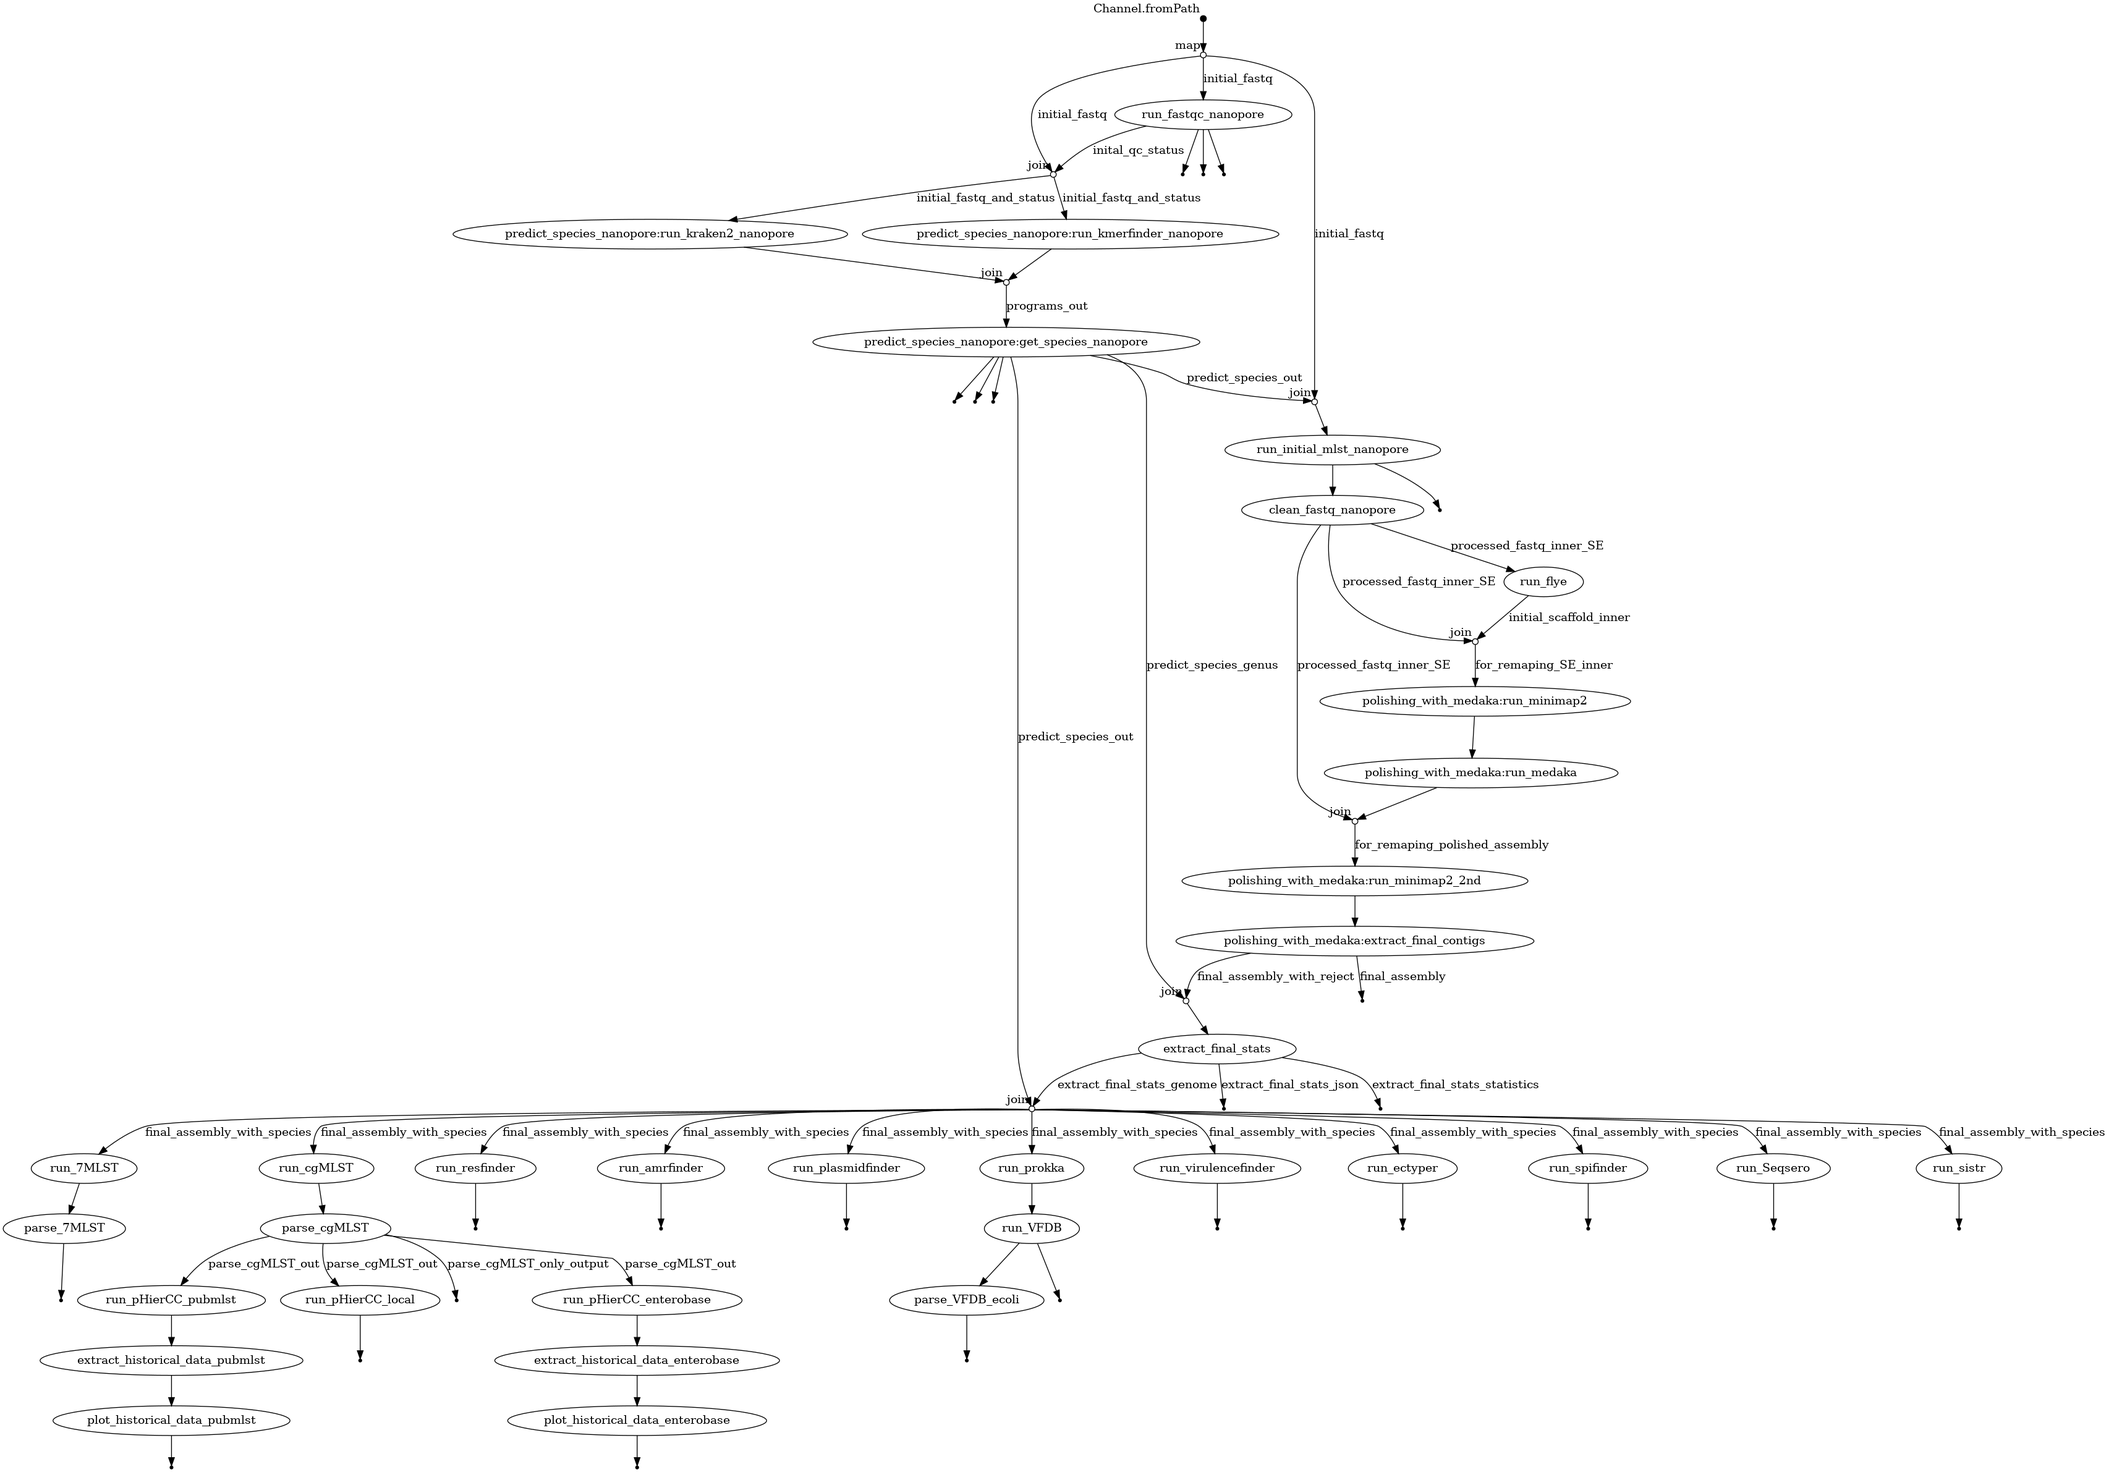
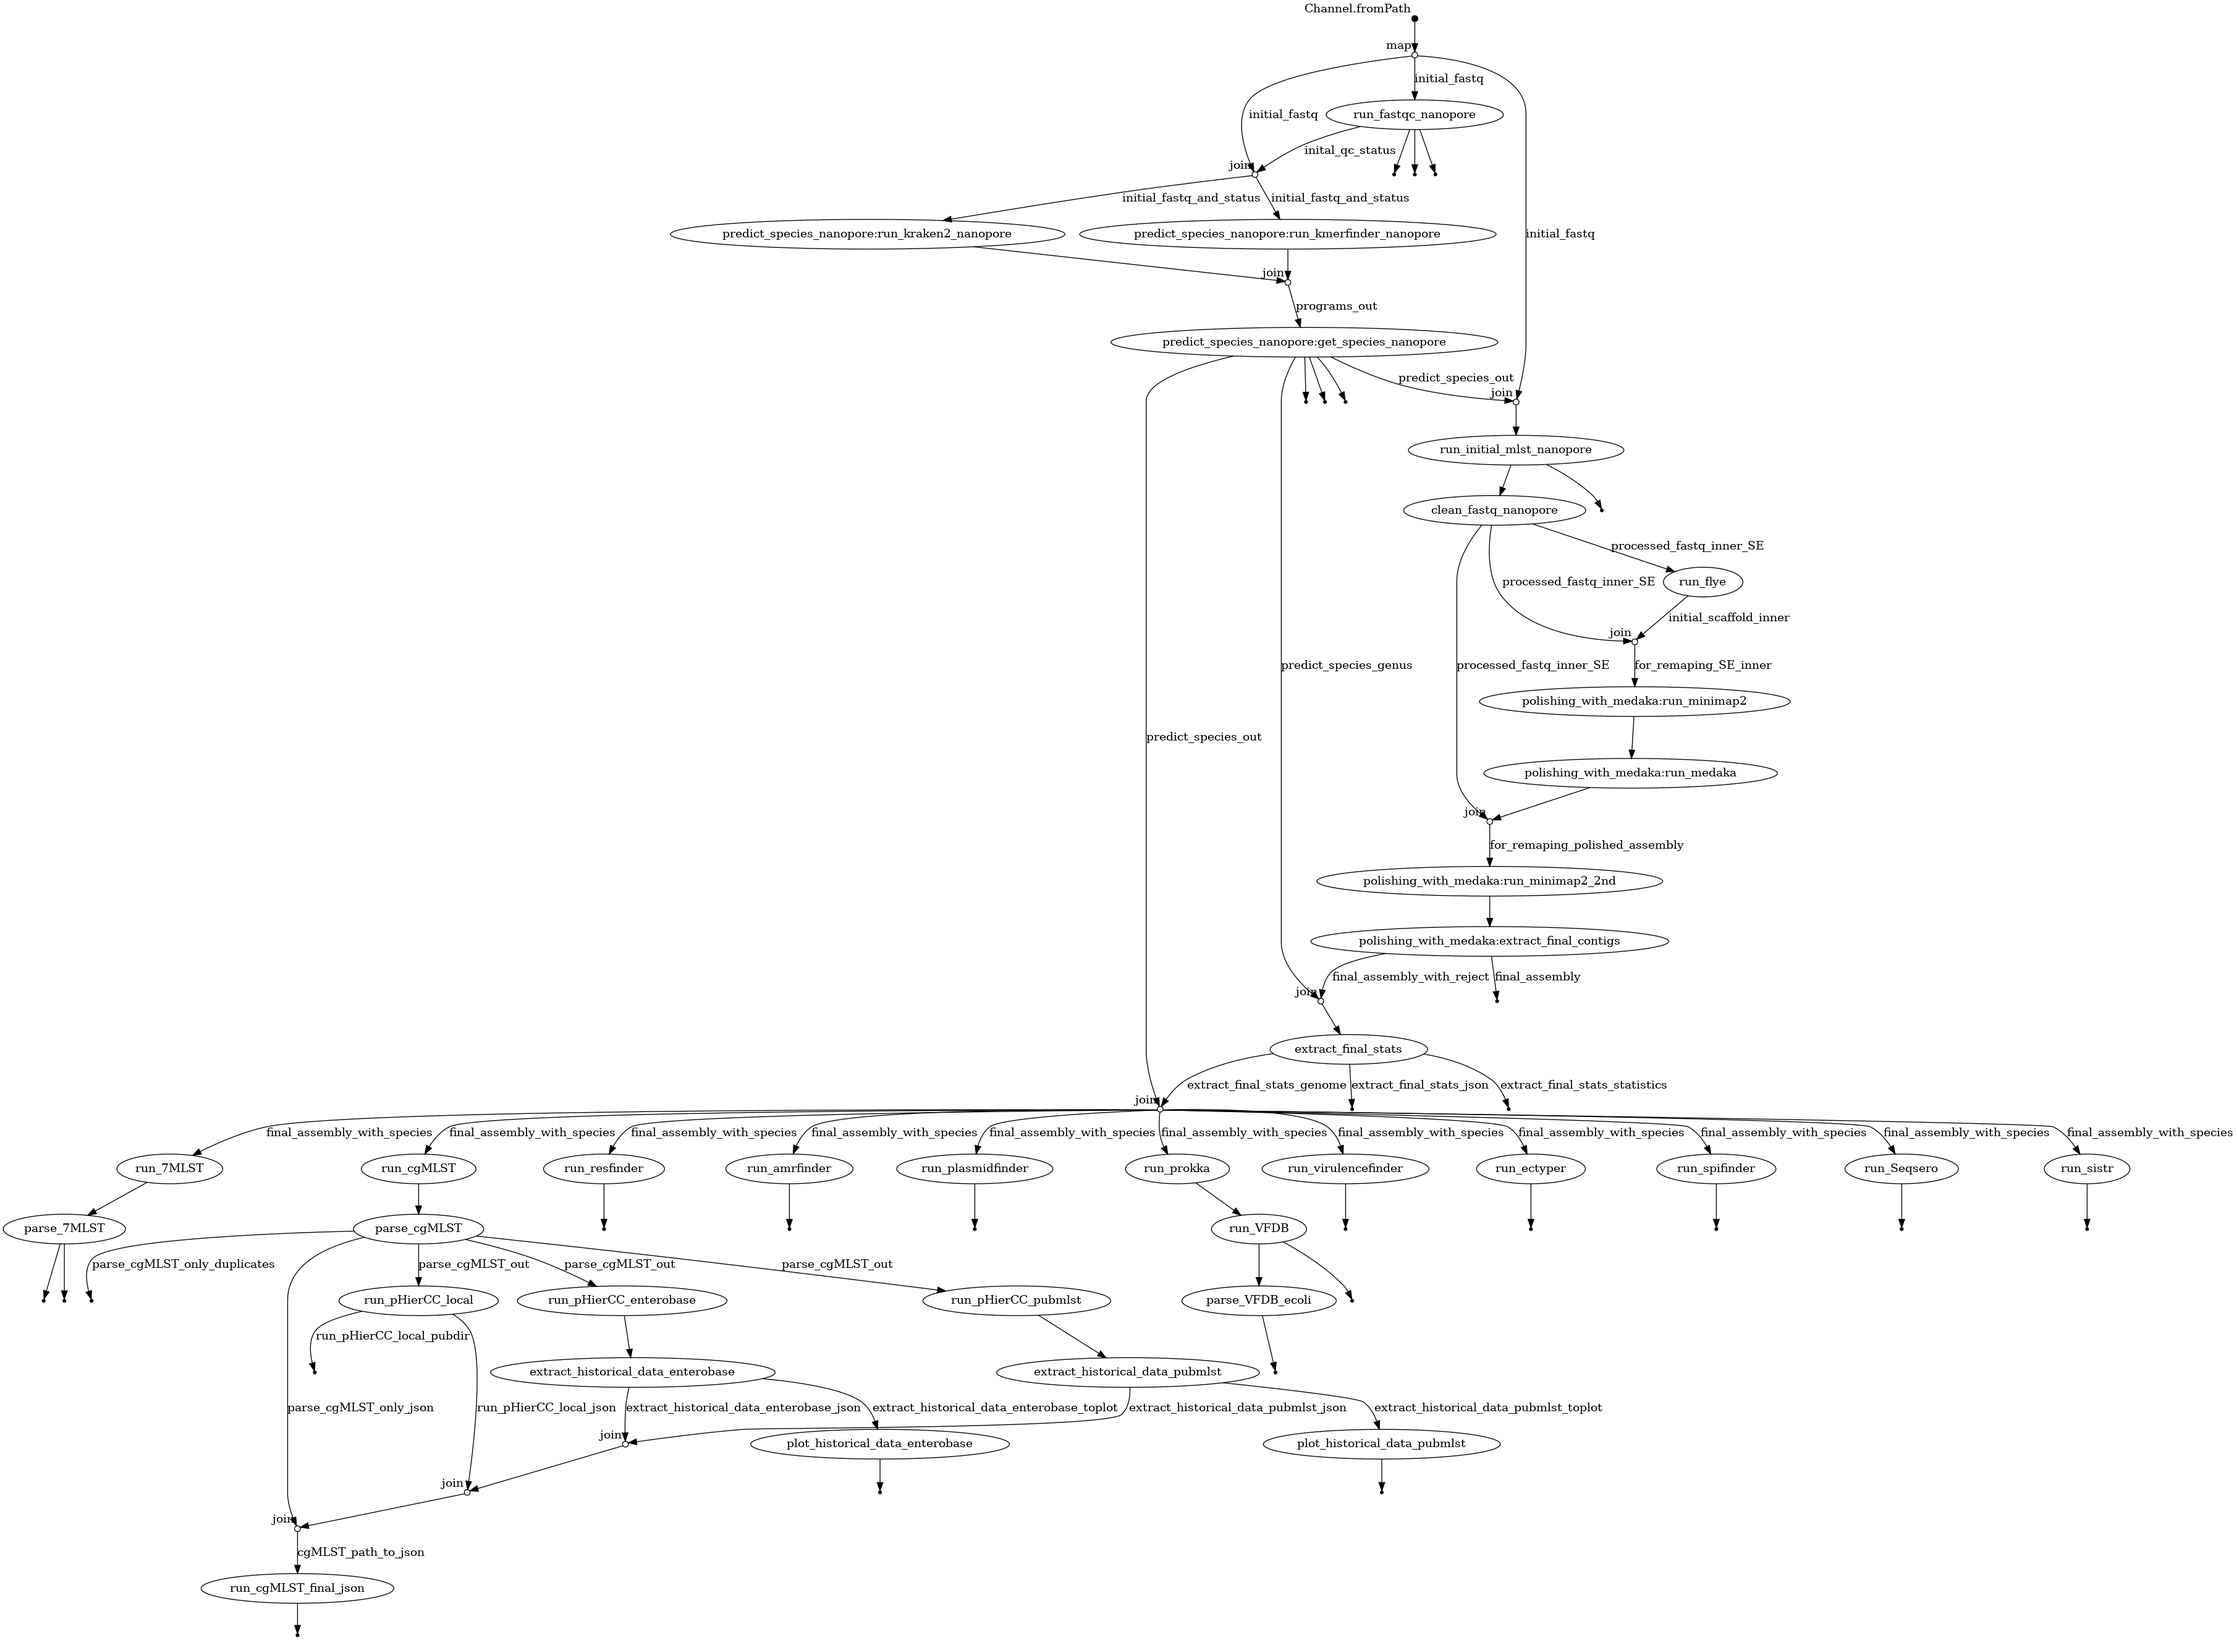
Added json for MLST and partially for cgMLST

diff --git a/bin/all_functions_salmonella.py b/bin/all_functions_salmonella.py
@@ -3,16 +3,17 @@ import re
 from Bio import SeqIO
 import gzip
 import numpy as np
+import json
 
 
 def create_profile(profile_file):
     """
     funkcja do tworzenia slownika ST na podstawie pliku profile sciagnietego z repozytorium enterobase
     :param profile_file: String do pliku profiles, rozne profile (7MLST, cgMLSDT, wgMLST) zawiera rozna liczbe kolumn,
-    piwerwsza kolumna to ST, koejne kolumny to informacja jaki wariant w danym miejscu genomu wystepuje (w postaci liczby),
-    jesli danego wariantu w danym ST nie ma jest "-".  Pierwszy wiersz to naglowki
-    :return: slownik slownikow, jako nadrzedny klucz jest sequence type, kazdemu sequence type odpowiada slownik zbudowany
-    z kluczy (nazwy genow z pierwszego naglowka), i jedna wartosc (numerek z pliku)
+    piwerwsza kolumna to ST, koejne kolumny to informacja jaki wariant w danym miejscu genomu wystepuje (w postaci
+     liczby), jesli danego wariantu w danym ST nie ma jest "-".  Pierwszy wiersz to naglowki
+    :return: slownik slownikow, jako nadrzedny klucz jest sequence type, kazdemu sequence type odpowiada slownik
+     zbudowany z kluczy (nazwy genow z pierwszego naglowka), i jedna wartosc (numerek z pliku)
     """
     slownik_profili = {}
     if not os.path.isfile(profile_file):
@@ -22,14 +23,15 @@ def create_profile(profile_file):
             for line in f:
                 if re.search('ST', line):
                     # jestesmy w wierszy naglowkowym tworzymy liste nazw, ktora posluzy jako klucze w slowniku
-                    lista_kluczy=line.rsplit()[1:] # ST nie jest kluczem
+                    lista_kluczy = line.rsplit()[1:]  # ST nie jest kluczem
                 else:
                     elementy = line.rsplit()
                     # tworzymy slownik dla danego ST
                     slownik_profili[elementy[0]] = {}
-                    for indeks,wartosc in enumerate(elementy[1:]):
+                    for indeks, wartosc in enumerate(elementy[1:]):
                         slownik_profili[elementy[0]][lista_kluczy[indeks]] = int(wartosc)
     return slownik_profili, lista_kluczy
+
 
 def getST(MLSTout, profile_file):
     """
@@ -47,17 +49,15 @@ def getST(MLSTout, profile_file):
     lista_kluczy_string - lista zawierajace nazwy loci w danym schemacie w postaci tab separated string
     """
 
-    #pierwszy przelot potrzebujemy listy kluczy/alleli w danym profilu
+    # pierwszy przelot potrzebujemy listy kluczy/alleli w danym profilu
     with open(profile_file) as f:
         for line in f:
             if re.search('ST', line):
                 # jestesmy w wierszy naglowkowym tworzymy liste nazw, ktora posluzy jako klucze w slowniku
-                lista_kluczy=line.rsplit()[1:] # ST nie jest kluczem
+                lista_kluczy = line.rsplit()[1:]  # ST nie jest kluczem
                 break
 
-
-    slownik_roznic = {} #slownik ktory jako klucze ma nazwe profilu, jako wartosc ilosc roznic do "naszej" probki
-
+    slownik_roznic = {}  # slownik ktory jako klucze ma nazwe profilu, jako wartosc ilosc roznic do "naszej" probki
 
     # Tworzymy profill alleliczny probki w kolejnosci loci identycznej jak w pliku z baza alleli
     # W przypadku braku danego locus-a dajemy -1
@@ -70,10 +70,10 @@ def getST(MLSTout, profile_file):
 
     # inicjalizacja zmiennych
     minimalna_roznica = 3200
-    slownik_roznic['local_0'] = minimalna_roznica # inicjujemy slownik dummy wartoscia
+    slownik_roznic['local_0'] = minimalna_roznica  # inicjujemy slownik dummy wartoscia
     allele_string_lowest_difference = ''
-    lista_probki_string = "\t".join(list(map(str,lista_probki)))
-    lista_kluczy_string = "\t".join(list(map(str,lista_kluczy)))
+    lista_probki_string = "\t".join(list(map(str, lista_probki)))
+    lista_kluczy_string = "\t".join(list(map(str, lista_kluczy)))
 
     # iterujemy po pliku z profilami, tym razem liczymy odleglosc miedzy znanymi profilami allelicznymi
     # a profilem probki, przerywamy iteracje po pliku przy znalezieniu profilu z odlegloscia 0
@@ -85,8 +85,8 @@ def getST(MLSTout, profile_file):
             else:
                 elementy = line.rsplit()
                 # wyciagamy ST  z profilu i allele
-                ST_dict = elementy[0] # ST w pliku z profilami
-                lista_ST = list(map(int,elementy[1:])) # profil alleliczny
+                ST_dict = elementy[0]  # ST w pliku z profilami
+                lista_ST = list(map(int, elementy[1:]))  # profil alleliczny
                 slownik_roznic[ST_dict] = 3200
 
                 slownik_roznic[ST_dict] = calculate_phiercc_distance(lista_probki, lista_ST)
@@ -101,11 +101,12 @@ def getST(MLSTout, profile_file):
 
     try:
         ST = np.min([int(x) for x, y in slownik_roznic.items() if y == minimalna_roznica])
-    except:
+    except ValueError:
         # obejscie jesli analizujemy baze local gdzie  ST maja postac f'local_{numer}'
         ST = np.min([int(x.split('_')[1]) for x, y in slownik_roznic.items() if y == minimalna_roznica])
         ST = f'local_{ST}'
     return str(ST), minimalna_roznica, allele_string_lowest_difference, lista_probki_string, lista_kluczy_string
+
 
 def write_novel_sample(profile, output_file):
     """
@@ -118,7 +119,7 @@ def write_novel_sample(profile, output_file):
         with open(output_file, 'a') as f:
             f.write(f'{profile}')
     else:
-        raise(f'Provided file {output_file} does not exist')
+        raise f'Provided file {output_file} does not exist'
 
 
 def calculate_phiercc_distance(wektor_x, wektor_y, allowed_missing=0.05):
@@ -134,8 +135,7 @@ def calculate_phiercc_distance(wektor_x, wektor_y, allowed_missing=0.05):
     wektor_y = np.array(wektor_y)
     n_loci = len(wektor_y)
     if len(wektor_y) != len(wektor_y):
-        raise('Provided profiles have different lengths')
-
+        raise 'Provided profiles have different lengths'
 
     rl, ad, al = 0., 1e-4, 1e-4
 
@@ -165,7 +165,7 @@ def calculate_phiercc_distance(wektor_x, wektor_y, allowed_missing=0.05):
 
 
 
-def parse_MLST_tsv(file_path, long = True, sep = "\t"):
+def parse_MLST_tsv(file_path, long=True, sep="\t"):
     """
     Funkcja do tworzenia slownika MLST na podstawie dwulinijkowego pliku, w ktorym naglowek ma klucze (odpowiadajace
     allelom) a drugiw wiersz to odzzielony ("\t", ";", " ", ",") identyfikator allelu
@@ -179,7 +179,7 @@ def parse_MLST_tsv(file_path, long = True, sep = "\t"):
         zakres = 2
     else:
         zakres = 1
-    slownik_alleli= {}
+    slownik_alleli = {}
     with open(file_path, 'r') as f:
         for line in f:
             if re.search('ST', line):
@@ -192,6 +192,7 @@ def parse_MLST_tsv(file_path, long = True, sep = "\t"):
                     slownik_alleli[klucze[indeks]] = wartosc
 
     return slownik_alleli
+
 
 def parse_MLST_fasta(file_path):
     """
@@ -211,6 +212,7 @@ def parse_MLST_fasta(file_path):
             slownik_alleli[record.description.split(' ')[0]] = -1
 
     return slownik_alleli
+
 
 def _parse_MLST_blastn(plik):
     """
@@ -233,7 +235,7 @@ def _parse_MLST_blastn(plik):
                     slownik_profili[line[0]] = -1
             except ValueError:
                 slownik_profili[line[0]] = -1
-    return(slownik_profili)
+    return slownik_profili
 
 
 def parse_MLST_blastn(plik):
@@ -254,13 +256,15 @@ def parse_MLST_blastn(plik):
                 slownik_profili[line[0]] = int(line[1])
             except ValueError:
                 slownik_profili[line[0]] = -1
-    return(slownik_profili)
+    return slownik_profili
 
-def compare_2_allel_dict(slownik1, slownik2, file_prefix = 'out'):
+
+def compare_2_allel_dict(slownik1, slownik2, file_prefix='out'):
     """
     Funkcja do porownywania dwoch slownikow alleli w celu okreslenia ich zgodnosci. Funkcja zwraca ilosc kluczy, ktore
     w obu slownikach przyjmuja takie same wartosci. Ponadtow dw a pliki z unikalnymi kluczami dla obu
-    slownikow rowniez zapisywane sa do pliko {file_prefix}_slownik1_uniquekeys.txt i {file_prefix}_slownik2_uniquekeys.txt
+    slownikow rowniez zapisywane sa do pliko {file_prefix}_slownik1_uniquekeys.txt
+    i {file_prefix}_slownik2_uniquekeys.txt
 
     :param slownik1: slownik
     :param slownik2: slownik, o kluczach identycznych z tymi w slowniku 1
@@ -269,7 +273,7 @@ def compare_2_allel_dict(slownik1, slownik2, file_prefix = 'out'):
     Pliki majaca nazwe {file_prefix}_commoncalue_keys.txt, {file_prefix)_differentvalue_keys.txt
     :return: int, liczba kluczy o zgodnych wartosciach miwedzy slownikami, ponadtwo tworzone sa 2 pliki
     """
-    #zrobimy ta petla
+    # zrobimy ta petla
     common_keys = 0
     with open(f"{file_prefix}_commoncalue_keys.txt", 'w') as f1, open(f"{file_prefix}_differentvalue_keys.txt", 'w') as f2:
         for allel in slownik1:
@@ -280,7 +284,7 @@ def compare_2_allel_dict(slownik1, slownik2, file_prefix = 'out'):
                 else:
                     f2.write(f"{allel}\t{slownik1[allel]}\t{slownik2[allel]}\n")
             else:
-                #print(f"Allel {allel} nie wystepuje w drugim slowniku !\n")
+                # print(f"Allel {allel} nie wystepuje w drugim slowniku !\n")
                 pass
     # na koniec wyrzumy jeszcze do plikow unikalne klucze dla slownikow 1 i 2
     slownik1_keys = set(slownik1.keys())
@@ -291,6 +295,7 @@ def compare_2_allel_dict(slownik1, slownik2, file_prefix = 'out'):
         f2.write("\n".join(slownik2_keys - slownik1_keys))
 
     return common_keys
+
 
 def sort_profile(profile_file, sorted_keys_file):
     """
@@ -319,9 +324,8 @@ def sort_profile(profile_file, sorted_keys_file):
                 for indeks, wartosc in enumerate(elementy):
                     slownik_alleli[klucze[indeks]] = wartosc
 
-
     with open(out_name, 'w') as f:
-        out_msg = '800000' #dummy identyfikator ?
+        out_msg = '800000'  # dummy identyfikator ?
         for klucz in sorted_keys:
             try:
                 slownik_alleli[klucz]
@@ -329,11 +333,11 @@ def sort_profile(profile_file, sorted_keys_file):
                 slownik_alleli[klucz] = '-1'
             out_msg = out_msg + '\t' + slownik_alleli[klucz]
 
-
         f.write("ST" + "\t" + "\t".join(sorted_keys) + "\n")
         f.write(out_msg + "\n")
 
     return True
+
 
 if __name__ == '__main__':
     pass
